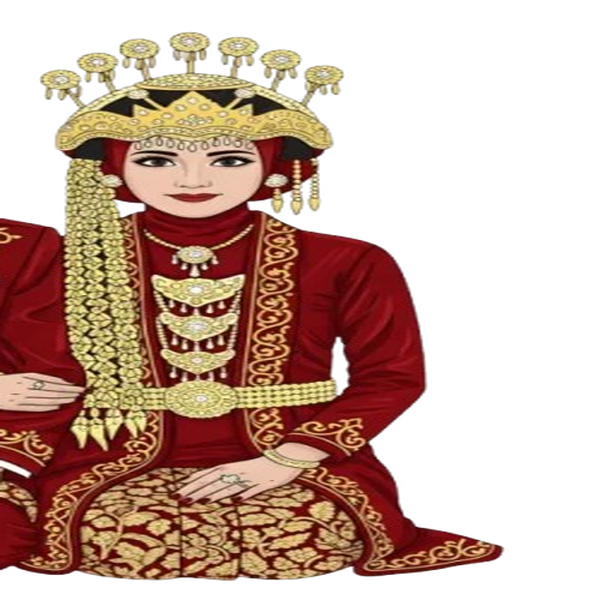
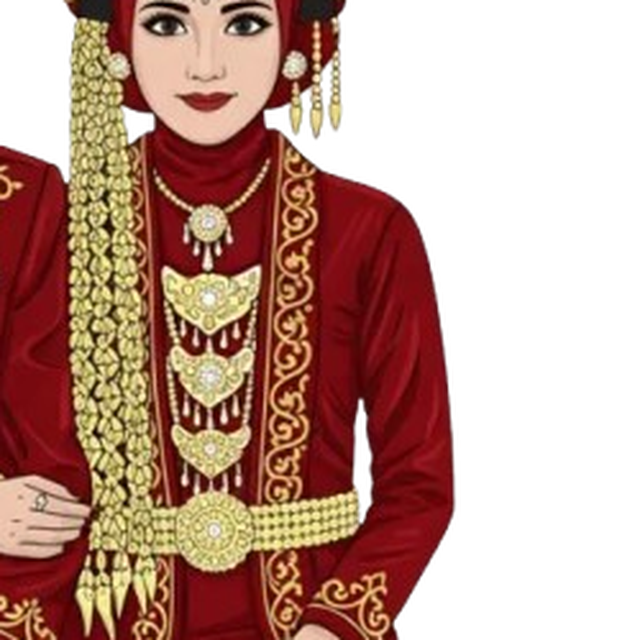
fix: square portrait crops and relative frame for couple photos

diff --git a/src/components/invitation/sections/CoupleSection.tsx b/src/components/invitation/sections/CoupleSection.tsx
@@ -97,14 +97,35 @@ export function CoupleSection({ tenant, themeConfig }: Props) {
             transition={{ duration: 0.8 }}
             className="flex flex-col items-center text-center"
           >
-            <div className="relative mb-6">
-              <div className="w-52 h-52 md:w-60 md:h-60 rounded-full overflow-hidden border-4 shadow-2xl" style={{ borderColor: themeConfig.primaryColor }}>
+            <div className="relative mb-6 flex justify-center">
+              <div
+                className="relative aspect-square w-52 shrink-0 overflow-hidden rounded-full border-4 shadow-2xl md:w-60"
+                style={{ borderColor: themeConfig.primaryColor }}
+              >
                 {tenant.groomPhotoUrl ? (
-                  <Image src={tenant.groomPhotoUrl} alt={tenant.groomName} fill className="object-cover" />
+                  <Image
+                    src={tenant.groomPhotoUrl}
+                    alt={tenant.groomName}
+                    fill
+                    sizes="(max-width: 768px) 208px, 240px"
+                    className="object-cover object-center"
+                  />
                 ) : isMinangTheme ? (
-                  <Image src="/images/minang-groom-real.png" alt="Ilustrasi mempelai pria Minang" fill className="object-cover object-center" />
+                  <Image
+                    src="/images/minang-groom-real.png"
+                    alt="Ilustrasi mempelai pria Minang"
+                    fill
+                    sizes="(max-width: 768px) 208px, 240px"
+                    className="object-cover object-center"
+                  />
                 ) : isIslam ? (
-                  <Image src="/images/muslim-groom-real.png" alt="Ilustrasi mempelai pria" fill className="object-cover object-center" />
+                  <Image
+                    src="/images/muslim-groom-real.png"
+                    alt="Ilustrasi mempelai pria"
+                    fill
+                    sizes="(max-width: 768px) 208px, 240px"
+                    className="object-cover object-center"
+                  />
                 ) : (
                   <CouplePhotoPlaceholder
                     name={tenant.groomNickname || tenant.groomName}
@@ -153,14 +174,35 @@ export function CoupleSection({ tenant, themeConfig }: Props) {
             transition={{ duration: 0.8 }}
             className="flex flex-col items-center text-center"
           >
-            <div className="relative mb-6">
-              <div className="w-52 h-52 md:w-60 md:h-60 rounded-full overflow-hidden border-4 shadow-2xl" style={{ borderColor: themeConfig.primaryColor }}>
+            <div className="relative mb-6 flex justify-center">
+              <div
+                className="relative aspect-square w-52 shrink-0 overflow-hidden rounded-full border-4 shadow-2xl md:w-60"
+                style={{ borderColor: themeConfig.primaryColor }}
+              >
                 {tenant.bridePhotoUrl ? (
-                  <Image src={tenant.bridePhotoUrl} alt={tenant.brideName} fill className="object-cover" />
+                  <Image
+                    src={tenant.bridePhotoUrl}
+                    alt={tenant.brideName}
+                    fill
+                    sizes="(max-width: 768px) 208px, 240px"
+                    className="object-cover object-center"
+                  />
                 ) : isMinangTheme ? (
-                  <Image src="/images/minang-bride-real.png" alt="Ilustrasi mempelai wanita Minang" fill className="object-cover object-center" />
+                  <Image
+                    src="/images/minang-bride-real.png"
+                    alt="Ilustrasi mempelai wanita Minang"
+                    fill
+                    sizes="(max-width: 768px) 208px, 240px"
+                    className="object-cover object-center"
+                  />
                 ) : isIslam ? (
-                  <Image src="/images/muslim-bride-real.png" alt="Ilustrasi mempelai wanita" fill className="object-cover object-center" />
+                  <Image
+                    src="/images/muslim-bride-real.png"
+                    alt="Ilustrasi mempelai wanita"
+                    fill
+                    sizes="(max-width: 768px) 208px, 240px"
+                    className="object-cover object-center"
+                  />
                 ) : (
                   <CouplePhotoPlaceholder
                     name={tenant.brideNickname || tenant.brideName}
